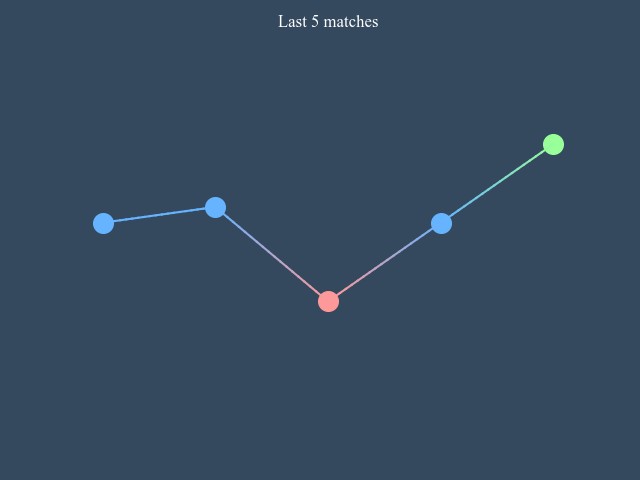
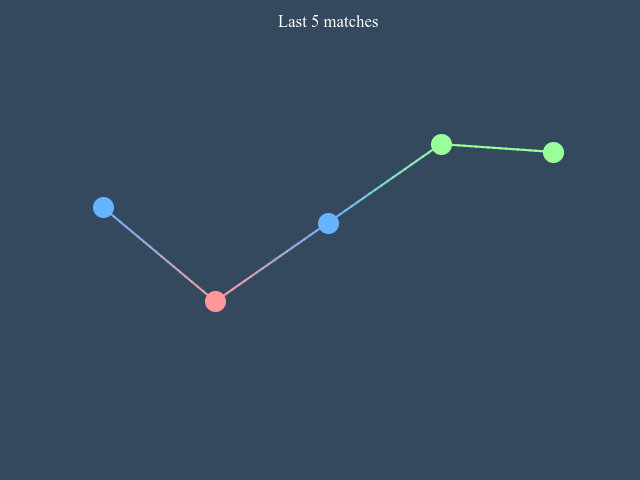
Updated everything after the final match of season 4

diff --git a/ranking.html b/ranking.html
@@ -52,89 +52,89 @@
     <th>Points</th>
   </tr>
   <tr>
-    <td data-th="Rank">1</td>
+    <td data-th="Rank"><img src="img/white.png" alt="White arrow">    1</td>
     <td data-th="Name">Abolfazl Bahari</td>
-    <td data-th="Total Pts">289</td>
+    <td data-th="Total Pts">285</td>
   </tr>
   <tr>
-    <td data-th="Rank">2</td>
+    <td data-th="Rank"><img src="img/white.png" alt="White arrow">    2</td>
     <td data-th="Name">Ali Zarghami</td>
-    <td data-th="Total Pts">243.75</td>
+    <td data-th="Total Pts">244</td>
   </tr>
   <tr>
-    <td data-th="Rank">3</td>
-    <td data-th="Name">Hossein Ghasemi</td>
-    <td data-th="Total Pts">182.5</td>
-  </tr>
-  <tr>
-    <td data-th="Rank">4</td>
-    <td data-th="Name">Hossein Khayami</td>
-    <td data-th="Total Pts">146.75</td>
-  </tr>
-  <tr>
-    <td data-th="Rank">5</td>
-    <td data-th="Name">Hossein Yousefi</td>
-    <td data-th="Total Pts">141.75</td>
-  </tr>
-  <tr>
-    <td data-th="Rank">6</td>
-    <td data-th="Name">Ata Sattarzadeh</td>
-    <td data-th="Total Pts">122.75</td>
-  </tr>
-  <tr>
-    <td data-th="Rank">7</td>
-    <td data-th="Name">Nasser Azarbakhsh</td>
-    <td data-th="Total Pts">117</td>
-  </tr>
-  <tr>
-    <td data-th="Rank">8</td>
-    <td data-th="Name">Golnaz Nikmehr</td>
-    <td data-th="Total Pts">111</td>
-  </tr>
-  <tr>
-    <td data-th="Rank">9</td>
+    <td data-th="Rank"><img src="img/green.png" alt="Green arrow">    3</td>
     <td data-th="Name">Saeed Mohammadi Ara</td>
-    <td data-th="Total Pts">99</td>
+    <td data-th="Total Pts">195</td>
   </tr>
   <tr>
-    <td data-th="Rank">10</td>
+    <td data-th="Rank"><img src="img/green.png" alt="Green arrow">    4</td>
     <td data-th="Name">Melika Boustan</td>
-    <td data-th="Total Pts">94.25</td>
+    <td data-th="Total Pts">193</td>
   </tr>
   <tr>
-    <td data-th="Rank">11</td>
-    <td data-th="Name">Mahnoush Mohammadi</td>
-    <td data-th="Total Pts">71.5</td>
+    <td data-th="Rank"><img src="img/white.png" alt="White arrow">    5</td>
+    <td data-th="Name">Hossein Yousefi</td>
+    <td data-th="Total Pts">164</td>
   </tr>
   <tr>
-    <td data-th="Rank">12</td>
+    <td data-th="Rank"><img src="img/red.png" alt="Red arrow">    6</td>
+    <td data-th="Name">Hossein Ghasemi</td>
+    <td data-th="Total Pts">153</td>
+  </tr>
+  <tr>
+    <td data-th="Rank"><img src="img/red.png" alt="Red arrow">    7</td>
+    <td data-th="Name">Hossein Khayami</td>
+    <td data-th="Total Pts">141</td>
+  </tr>
+  <tr>
+    <td data-th="Rank"><img src="img/red.png" alt="Red arrow">    8</td>
+    <td data-th="Name">Nasser Azarbakhsh</td>
+    <td data-th="Total Pts">114</td>
+  </tr>
+  <tr>
+    <td data-th="Rank"><img src="img/green.png" alt="Green arrow">    9</td>
+    <td data-th="Name">Mahdi Beheshtara</td>
+    <td data-th="Total Pts">97</td>
+  </tr>
+  <tr>
+    <td data-th="Rank"><img src="img/green.png" alt="Green arrow">    10</td>
     <td data-th="Name">Mahsa Ghazi</td>
     <td data-th="Total Pts">70</td>
   </tr>
   <tr>
-    <td data-th="Rank">13</td>
-    <td data-th="Name">Mahdi Beheshtara</td>
-    <td data-th="Total Pts">48</td>
+    <td data-th="Rank"><img src="img/red.png" alt="Red arrow">    11</td>
+    <td data-th="Name">Ata Sattarzadeh</td>
+    <td data-th="Total Pts">61</td>
   </tr>
   <tr>
-    <td data-th="Rank">14</td>
+    <td data-th="Rank"><img src="img/red.png" alt="Red arrow">    12</td>
+    <td data-th="Name">Golnaz Nikmehr</td>
+    <td data-th="Total Pts">55</td>
+  </tr>
+  <tr>
+    <td data-th="Rank"><img src="img/red.png" alt="Red arrow">    13</td>
+    <td data-th="Name">Mahnoush Mohammadi</td>
+    <td data-th="Total Pts">36</td>
+  </tr>
+  <tr>
+    <td data-th="Rank"><img src="img/white.png" alt="White arrow">    14</td>
     <td data-th="Name">Akram Heydarizadeh</td>
-    <td data-th="Total Pts">32</td>
+    <td data-th="Total Pts">16</td>
   </tr>
   <tr>
-    <td data-th="Rank">15</td>
+    <td data-th="Rank"><img src="img/white.png" alt="White arrow">    15</td>
     <td data-th="Name">Pouya Alameirpour</td>
-    <td data-th="Total Pts">20</td>
+    <td data-th="Total Pts">10</td>
   </tr>
   <tr>
-    <td data-th="Rank">16</td>
+    <td data-th="Rank"><img src="img/white.png" alt="White arrow">    16</td>
     <td data-th="Name">Sara Shahsavari</td>
-    <td data-th="Total Pts">18.5</td>
+    <td data-th="Total Pts">9</td>
   </tr>
   <tr>
-    <td data-th="Rank">17</td>
+    <td data-th="Rank"><img src="img/white.png" alt="White arrow">    17</td>
     <td data-th="Name">Mohammad Reza Hemmati</td>
-    <td data-th="Total Pts">11.75</td>
+    <td data-th="Total Pts">6</td>
   </tr>
 </table>
 

diff --git a/s4.html b/s4.html
@@ -47,6 +47,7 @@
   <h1>Sarveen Cup - Season 4</h1>
   
     <h2>Grand Final</h2>
+    <p><font color="green"><b>Congratulations to Sarveen Cup Splendor champion, "SAEED MOHAMMADI ARA"</b></font></p>
 	<table class="rwd-table">
 	  <tr>
 		<th>Name</th>
@@ -54,24 +55,24 @@
 		<th>Total Pts</th>
 	  </tr>
 	  <tr>
-		<td data-th="Name">Ali Zarghami</td>
-		<td data-th="Time Left">00:00:00</td>
-		<td data-th="Total Pts">0</td>
-	  </tr>
-	  <tr>
-		<td data-th="Name">Melika Boustan</td>
-		<td data-th="Time Left">00:00:00</td>
-		<td data-th="Total Pts">0</td>
-	  </tr>
-	  <tr>
 		<td data-th="Name">Saeed Mohammadi Ara</td>
-		<td data-th="Time Left">00:00:00</td>
-		<td data-th="Total Pts">0</td>
+		<td data-th="Time Left">00:04:15</td>
+		<td data-th="Total Pts">15</td>
+	  </tr>
+	  <tr>
+		<td data-th="Name">Ali Zarghami</td>
+		<td data-th="Time Left">00:00:49</td>
+		<td data-th="Total Pts">14</td>
 	  </tr>
 	  <tr>
 		<td data-th="Name">Abolfazl Bahari</td>
-		<td data-th="Time Left">00:00:00</td>
-		<td data-th="Total Pts">0</td>
+		<td data-th="Time Left">00:00:56</td>
+		<td data-th="Total Pts">14</td>
+	  </tr>
+	  <tr>
+		<td data-th="Name">Melika Boustan</td>
+		<td data-th="Time Left">00:04:51</td>
+		<td data-th="Total Pts">12</td>
 	  </tr>
 	</table>
 	

diff --git a/news.html b/news.html
@@ -46,6 +46,13 @@
   <h1>Sarveen Games News</h1>
   
   <div class="row">
+    <div class="card">
+      <h2>Saeed Mohammadi Ara is the Champion of season 4</h2>
+      <h5>Apr 26, 2021</h5>
+      <p>It is finally over. Tonight the final match of Sarveen cup season four was played between the four finalists and Saeed Mohammadi Ara ended Abolfazl Bahari's reign.</p>
+	  <p>This match was the closest final in the history of Sarveen cup where all competitors went toe to toe until the last turn. Ali Zarghami and Abolfazl Bahari showed promising but their performance was not good enough. Saeed Mohammadi Ara who reached the final through playoffs scored 15 before anyone else and named himself the new champion.</p>
+	  <p>Sarveen Games would like to congratulate Saeed Mohammadi Ara for his glorious victory</p>
+	</div>
   	<div class="card">
       <h2>Only one match to find out who will be the new Sarveen cup title winner</h2>
       <h5>Apr 19, 2021</h5>

diff --git a/profiles/abizi.html b/profiles/abizi.html
@@ -50,13 +50,13 @@
   	<div class="column-container">
 	<div class="column">
       <h2>Abolfazl Bahari</h2>
-	  <p><b>Honors</b>: &#129351; &#129351; &#128175; &#128175;</p>
+	  <p><b>Honors</b>: &#129351; &#129351; &#129353; &#128175; &#128175;</p>
 	  <p><b>Rank</b>: 1</p>
 	  <p><b>Ranking Points</b>: 289</p>
       <p><b>Seasons Participated</b>: 4</p>
-	  <p><b>Matches Played</b>: 20</p>
-	  <p><b>Average Game points</b>: 14.25</p>
-	  <p><b>Average Time</b>: 0:10:14</p>
+	  <p><b>Matches Played</b>: 21</p>
+	  <p><b>Average Game points</b>: 14.24</p>
+	  <p><b>Average Time</b>: 0:10:25</p>
 	  </div>
 	  <div class="column">
 	  <img src="../charts/standings/Abizi.png" alt="Standing distribution" >

diff --git a/profiles/alizarghami.html b/profiles/alizarghami.html
@@ -50,13 +50,13 @@
   	<div class="column-container">
 	<div class="column">
       <h2>Ali Zarghami</h2>
-	  <p><b>Honors</b>: &#129351; &#129352; &#129353; &#128175;</p>
+	  <p><b>Honors</b>: &#129351; &#129352; &#129352; &#129353; &#128175;</p>
 	  <p><b>Rank</b>: 2</p>
 	  <p><b>Ranking Points</b>: 243.75</p>
       <p><b>Seasons Participated</b>: 4</p>
-	  <p><b>Matches Played</b>: 20</p>
-	  <p><b>Average Game points</b>: 13.7</p>
-	  <p><b>Average Time</b>: 0:09:15</p>
+	  <p><b>Matches Played</b>: 21</p>
+	  <p><b>Average Game points</b>: 13.71</p>
+	  <p><b>Average Time</b>: 0:09:29</p>
 	  </div>
 	  <div class="column">
 	  <img src="../charts/standings/Ali.png" alt="Standing distribution" >

diff --git a/profiles/saeedmohammadiara.html b/profiles/saeedmohammadiara.html
@@ -50,12 +50,13 @@
   	<div class="column-container">
 	<div class="column">
       <h2>Saeed Mohammadi Ara</h2>
+	  <p><b>Honors</b>: &#129351;</p>
 	  <p><b>Rank</b>: 9</p>
 	  <p><b>Ranking Points</b>: 99</p>
       <p><b>Seasons Participated</b>: 2</p>
-	  <p><b>Matches Played</b>: 10</p>
-	  <p><b>Average Game points</b>: 13</p>
-	  <p><b>Average Time</b>: 0:10:04</p>
+	  <p><b>Matches Played</b>: 11</p>
+	  <p><b>Average Game points</b>: 13.18</p>
+	  <p><b>Average Time</b>: 0:10:07</p>
 	  </div>
 	  <div class="column">
 	  <img src="../charts/standings/Saeed.png" alt="Standing distribution" >

diff --git a/hall.html b/hall.html
@@ -53,11 +53,15 @@
 	  </tr>
 	  <tr>
 		<td data-th="Name">Abolfazl Bahari</td>
-		<td data-th="Medals">&#129351; &#129351; &#128175; &#128175;</td>
+		<td data-th="Medals">&#129351; &#129351; &#129353; &#128175; &#128175;</td>
 	  </tr>
 	  <tr>
 		<td data-th="Name">Ali Zarghami</td>
-		<td data-th="Medals">&#129351; &#129352; &#129353; &#128175;</td>
+		<td data-th="Medals">&#129351; &#129352; &#129352; &#129353; &#128175;</td>
+	  </tr>
+	  <tr>
+		<td data-th="Name">Saeed Mohammadi Ara</td>
+		<td data-th="Medals">&#129351;</td>
 	  </tr>
 	  <tr>
 		<td data-th="Name">Golnaz Nikmehr</td>

diff --git a/profiles/melikaboustan.html b/profiles/melikaboustan.html
@@ -54,9 +54,9 @@
 	  <p><b>Rank</b>: 10</p>
 	  <p><b>Ranking Points</b>: 94.25</p>
       <p><b>Seasons Participated</b>: 3</p>
-	  <p><b>Matches Played</b>: 13</p>
-	  <p><b>Average Game points</b>: 12.69</p>
-	  <p><b>Average Time</b>: 0:09:57</p>
+	  <p><b>Matches Played</b>: 14</p>
+	  <p><b>Average Game points</b>: 12.64</p>
+	  <p><b>Average Time</b>: 0:09:58</p>
 	  </div>
 	  <div class="column">
 	  <img src="../charts/standings/Melika.png" alt="Standing distribution" >
